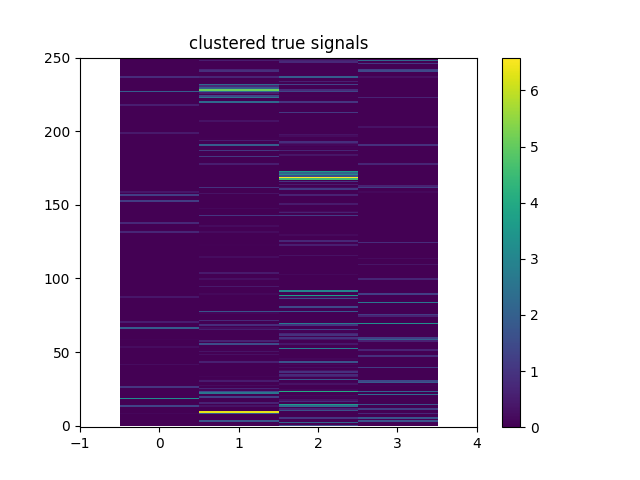
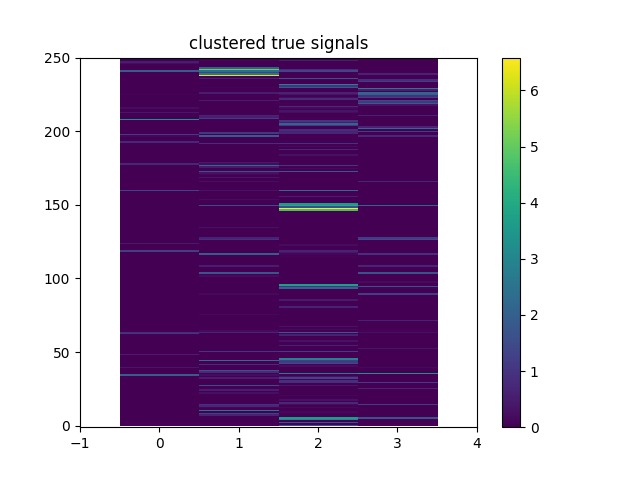
updated images_2

Changed region(s): [[0.1875, 0.125, 0.6875, 0.4688], [0.1875, 0.5938, 0.6875, 0.9062], [0.1875, 0.375, 0.6875, 0.5938]]

diff --git a/fastICA/main.py b/fastICA/main.py
@@ -68,7 +68,7 @@ def clustering(X):
     # solve: DBSCAN(eps=0.0005, min_samples=5, metric='precomputed')
     # prod: DBSCAN(eps=0.02, min_samples=5, metric='precomputed')
 
-    dbscan = DBSCAN(eps=0.02, min_samples=5, metric='precomputed')
+    dbscan = DBSCAN(eps=0.02, min_samples=3, metric='precomputed')
     labels = dbscan.fit_predict(distance_matrix)
 
     # print(labels)
